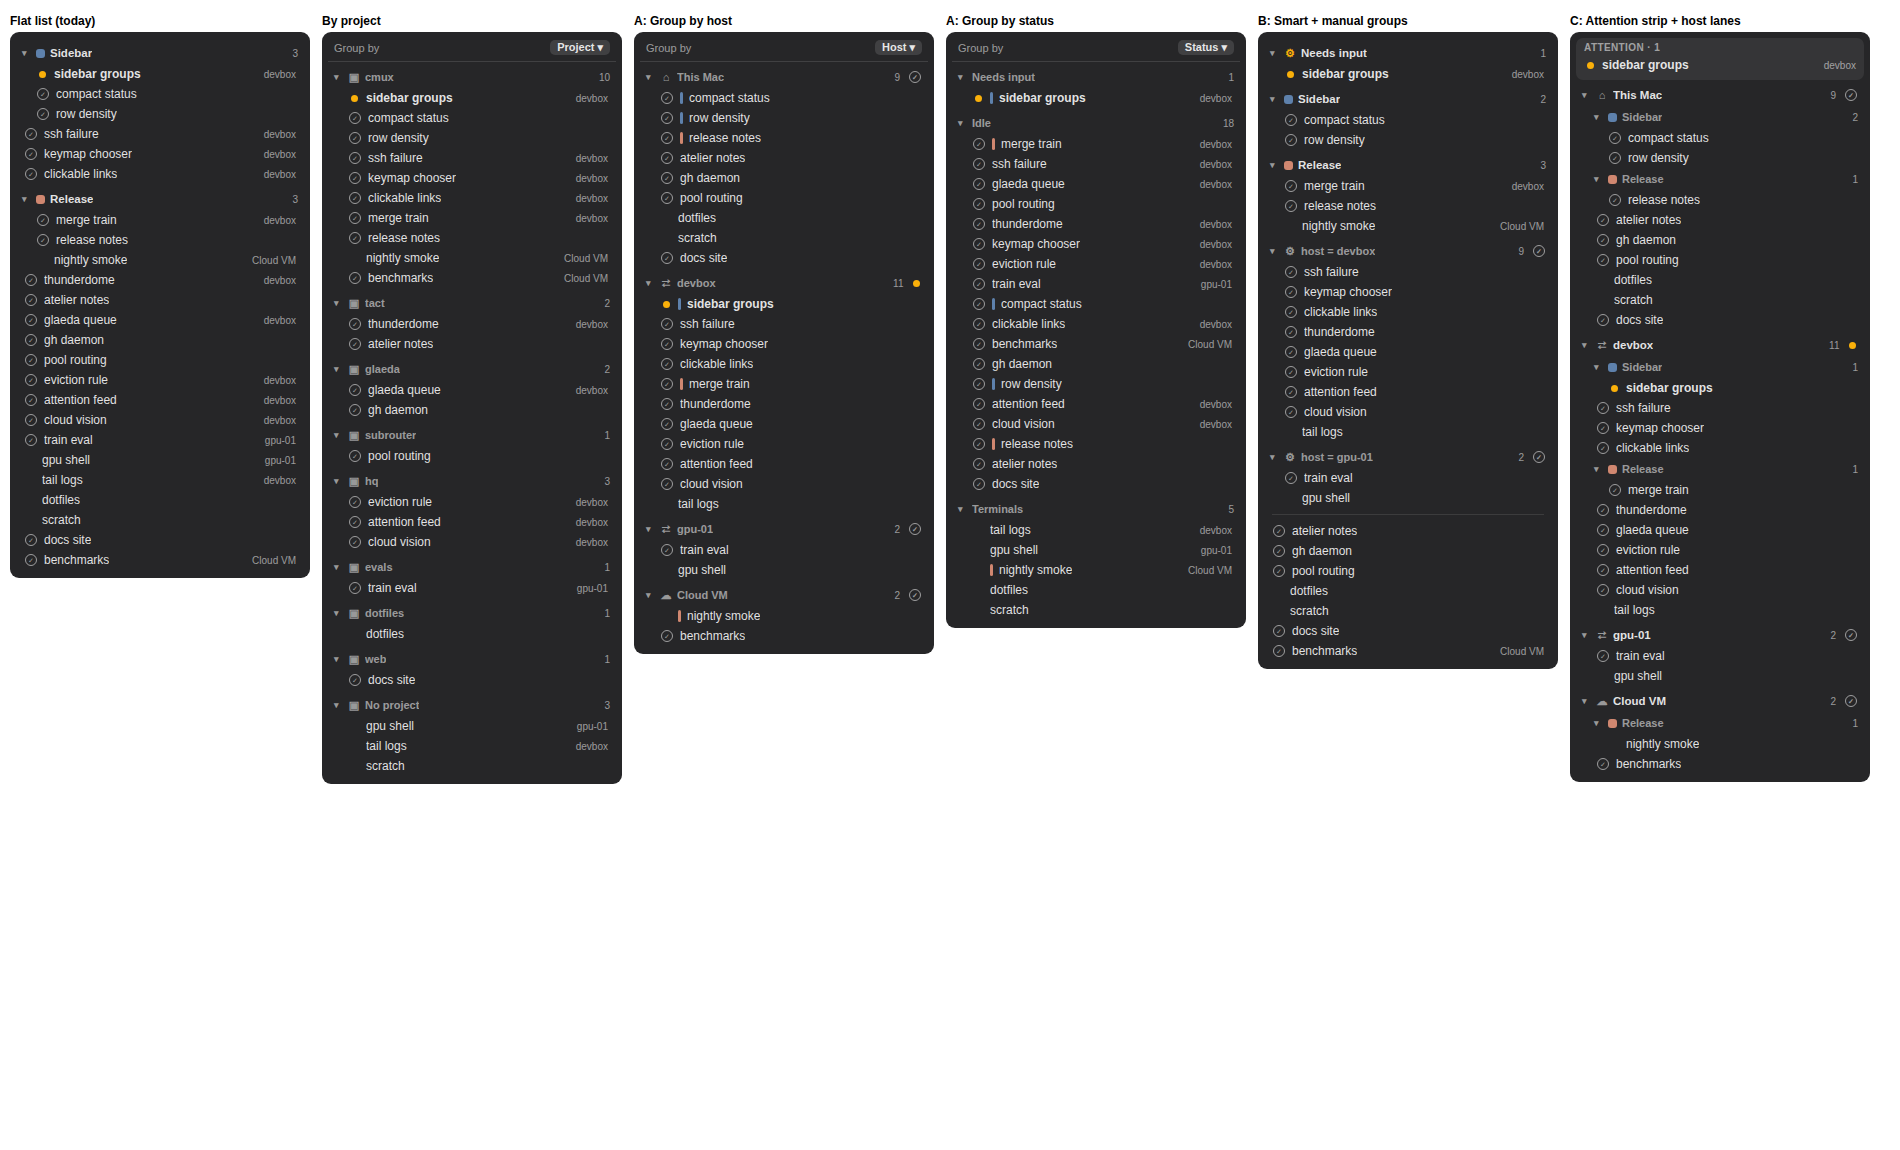
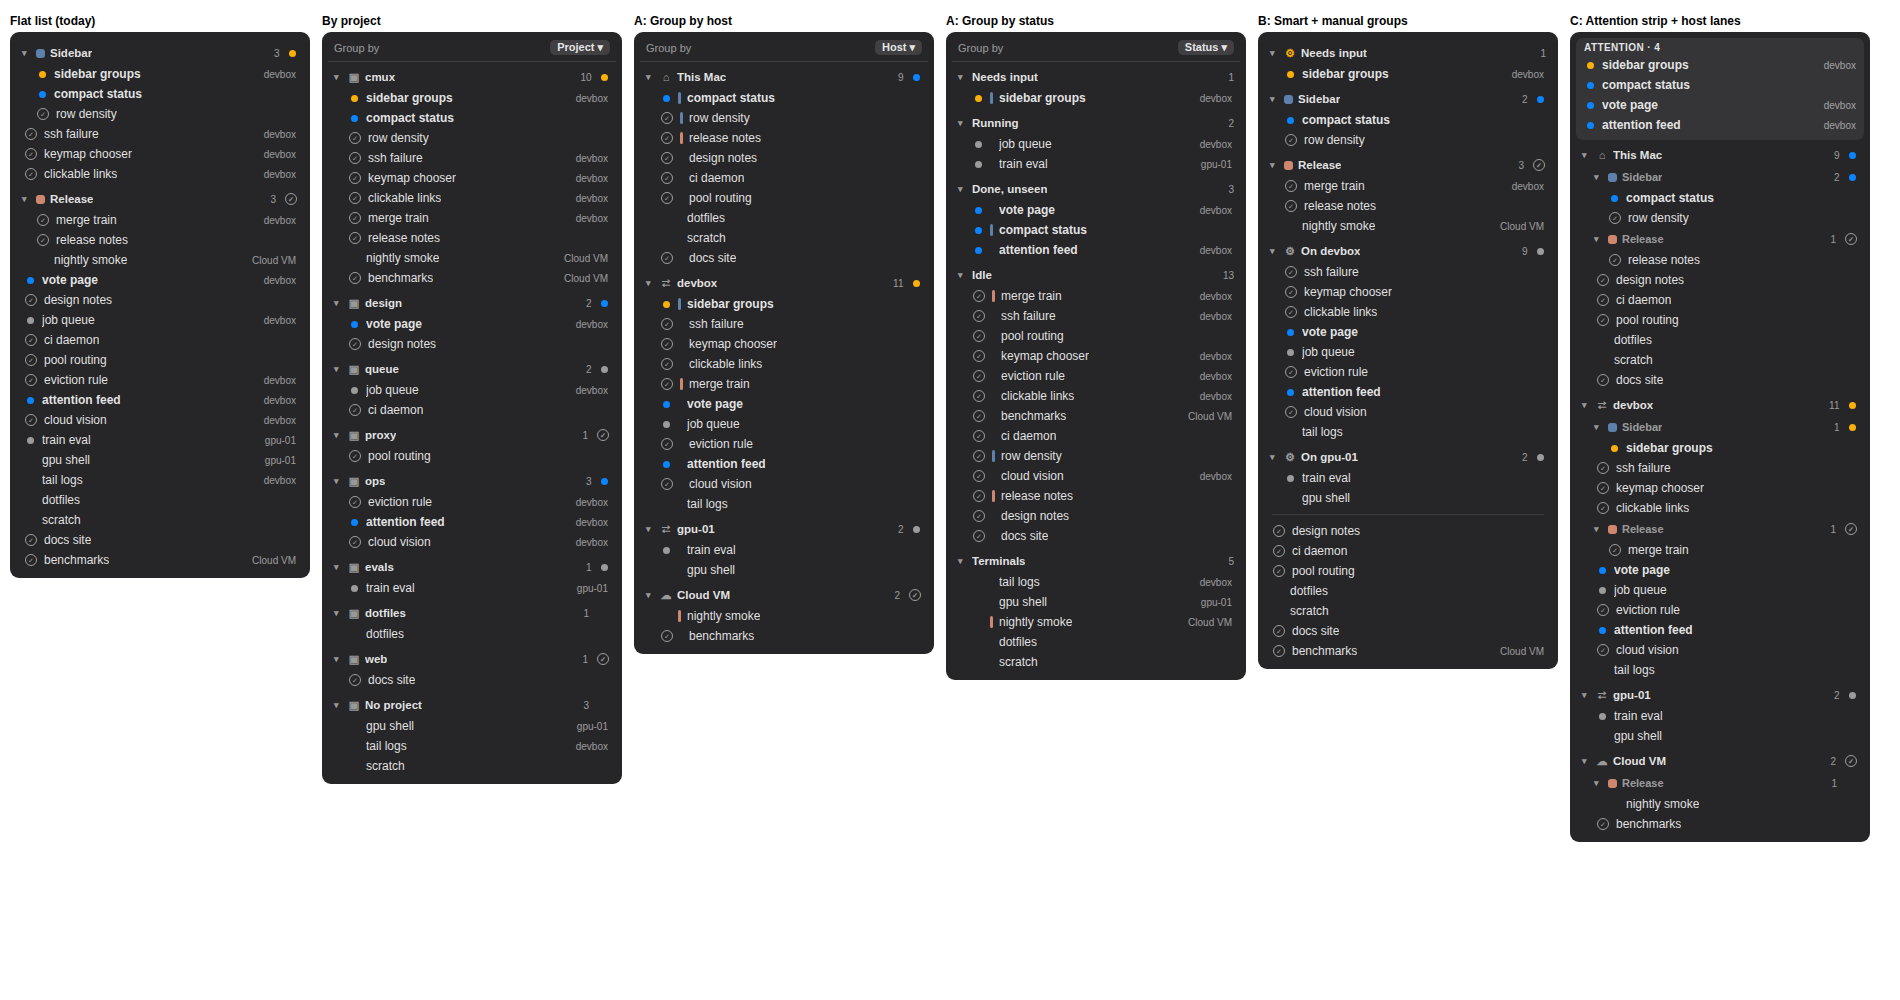
Thunderdome sidebar groups: even out the mocks after review
Every top-level header now has the same weight and a status rollup, group
tags reserve their slot, the quiet moment keeps some running and unseen
work, B's note says what wins, rules read "On devbox", the legend covers
tags and rule groups, and mock names are generic.

diff --git a/experiments/thunderdome/examples/cmux-sidebar-groups/index.html b/experiments/thunderdome/examples/cmux-sidebar-groups/index.html
@@ -5,7 +5,7 @@
 <meta charset="utf-8">
 <meta name="viewport" content="width=device-width,initial-scale=1">
 <title>Sidebar Organization Thunderdome</title>
-<meta name="description" content="Six ways to organize the same 24 cmux workspaces: local agents, agents on two ssh hosts and a Cloud VM, and plain terminals. Pick the sidebar you would rather work from all day. The arena flips between a busy afternoon (several agents need you) and a quiet evening. Glyphs: amber = needs input, grey ">
+<meta name="description" content="Six ways to organize the same 24 cmux workspaces: local agents, agents on two ssh hosts and a Cloud VM, and plain terminals. Pick the sidebar you would rather work from all day. The arena flips between a busy afternoon (several agents need you) and a quiet evening. Glyphs are the ones cmux draws: am">
 <link rel="preconnect" href="https://fonts.googleapis.com">
 <link rel="preconnect" href="https://fonts.gstatic.com" crossorigin>
 <link rel="stylesheet" href="https://fonts.googleapis.com/css2?family=IBM+Plex+Mono:wght@400;500&family=IBM+Plex+Sans:wght@400;500;600&display=swap">
@@ -696,7 +696,6 @@ body{margin:0;background:var(--bg);color:var(--ink);font:15px/1.5 var(--sans);pa
 <script>
 // cmux sidebar organization: six ways to lay out the same ~24 workspaces.
 // Arena: sidebar theme x moment (busy afternoon vs quiet evening). Split: light vs dark.
-// Design notes: manaflow-ai/cmuxterm-hq#871.
 
 const THEMES = [
   { id: "mac-light", name: "macOS Light", bg: "#E6E6E8", fg: [0, 0, 0], fgA: .85, secA: .5, dark: false },
@@ -711,7 +710,7 @@ const rgba = (c, a) => `rgba(${c[0]},${c[1]},${c[2]},${a})`;
 // Hosts: "local" is this Mac; "devbox" and "gpu-01" are cmux ssh targets; "cloud" is a Cloud VM.
 const W = [
   ["sidebar groups", "devbox", "claude", "cmux", "Sidebar", "rn", 4],
-  ["compact status", "local", "claude", "cmux", "Sidebar", "ui", 12],
+  ["compact status", "local", "claude", "cmux", "Sidebar", "uu", 12],
   ["row density", "local", "claude", "cmux", "Sidebar", "ri", 30],
   ["ssh failure", "devbox", "claude", "cmux", null, "ni", 2],
   ["keymap chooser", "devbox", "codex", "cmux", null, "ri", 8],
@@ -719,15 +718,15 @@ const W = [
   ["merge train", "devbox", "claude", "cmux", "Release", "ri", 1],
   ["release notes", "local", "codex", "cmux", "Release", "ii", 240],
   ["nightly smoke", "cloud", null, "cmux", "Release", "tt", 400],
-  ["thunderdome", "devbox", "claude", "tact", null, "ui", 6],
-  ["atelier notes", "local", "claude", "tact", null, "ii", 900],
-  ["glaeda queue", "devbox", "codex", "glaeda", null, "ri", 3],
-  ["gh daemon", "local", "claude", "glaeda", null, "ni", 20],
-  ["pool routing", "local", "claude", "subrouter", null, "ri", 5],
-  ["eviction rule", "devbox", "claude", "hq", null, "ri", 9],
-  ["attention feed", "devbox", "claude", "hq", null, "ui", 45],
-  ["cloud vision", "devbox", "codex", "hq", null, "ii", 130],
-  ["train eval", "gpu-01", "claude", "evals", null, "ri", 11],
+  ["vote page", "devbox", "claude", "design", null, "uu", 6],
+  ["design notes", "local", "claude", "design", null, "ii", 900],
+  ["job queue", "devbox", "codex", "queue", null, "rr", 3],
+  ["ci daemon", "local", "claude", "queue", null, "ni", 20],
+  ["pool routing", "local", "claude", "proxy", null, "ri", 5],
+  ["eviction rule", "devbox", "claude", "ops", null, "ri", 9],
+  ["attention feed", "devbox", "claude", "ops", null, "uu", 45],
+  ["cloud vision", "devbox", "codex", "ops", null, "ii", 130],
+  ["train eval", "gpu-01", "claude", "evals", null, "rr", 11],
   ["gpu shell", "gpu-01", null, "~", null, "tt", 60],
   ["tail logs", "devbox", null, "~", null, "tt", 25],
   ["dotfiles", "local", null, "dotfiles", null, "tt", 2000],
@@ -771,7 +770,7 @@ function row(w, ctx, opts = {}) {
   const st = statusOf(w, m);
   const r = h("div", { class: "r" + (opts.indent === 2 ? " in2" : opts.indent ? " in" : "") });
   r.append(glyph(st, th, h));
-  if (opts.groupTag && w.group) r.append(h("span", { class: "tag", style: `background:${GROUP_COLOR[w.group]}` }));
+  if (opts.groupTag) r.append(h("span", { class: "tag", style: w.group ? `background:${GROUP_COLOR[w.group]}` : "" }));
   r.append(h("span", { class: "nm", style: `color:${fg};font-weight:${st === "u" || st === "n" ? 650 : 500}`, text: w.t }));
   const trail = opts.trail ? opts.trail(w) : (w.host !== "local" ? HOST_NAME[w.host] : "");
   if (trail) r.append(h("span", { class: "tr", style: `color:${sec}`, text: trail }));
@@ -812,7 +811,7 @@ function sections(ws, keyOf, order, ctx, labelOf, opts = {}) {
   const out = [];
   for (const k of keys) {
     const items = buckets.get(k);
-    out.push(header(labelOf(k), ctx, { count: items.length, rollup: opts.rollup ? loudest(items) : null, icon: opts.icon && opts.icon(k), color: opts.color && opts.color(k) }));
+    out.push(header(labelOf(k), ctx, { strong: true, count: items.length, rollup: opts.rollup === false ? null : loudest(items), icon: opts.icon && opts.icon(k), color: opts.color && opts.color(k) }));
     for (const w of items) out.push(row(w, ctx, { indent: true, ...(opts.row || {}) }));
   }
   return out;
@@ -831,7 +830,7 @@ const LAYOUTS = [
         if (w.group && !seen.has(w.group)) {
           seen.add(w.group);
           const members = ws.filter(x => x.group === w.group);
-          out.push(header(w.group, ctx, { color: GROUP_COLOR[w.group], strong: true, count: members.length }));
+          out.push(header(w.group, ctx, { color: GROUP_COLOR[w.group], strong: true, count: members.length, rollup: loudest(members) }));
           for (const x of members) out.push(row(x, ctx, { indent: true }));
         } else if (!w.group) out.push(row(w, ctx));
       }
@@ -850,11 +849,10 @@ const LAYOUTS = [
 
   { id: "a-status", name: "A: Group by status", note: "Same switcher; sections by agent state, loudest first",
     body: (ws, ctx) => [switcher("Status", ctx), ...sections(ws.slice().sort(byRecent), w => w.cur, k => STATUS_META[k].rank, ctx, k => STATUS_META[k].name,
-      { row: { groupTag: true } })] },
+      { rollup: false, row: { groupTag: true } })] },
 
-  { id: "b-smart", name: "B: Smart + manual groups", note: "Rule groups live beside manual ones; manual membership wins",
+  { id: "b-smart", name: "B: Smart + manual groups", note: "Rule groups beside manual ones: Needs input first, then manual groups, then host rules",
     body: (ws, ctx) => {
-      const { th } = ctx;
       const out = [];
       const needs = ws.filter(w => w.cur === "n");
       out.push(header("Needs input", ctx, { icon: "⚙", color: AMBER, strong: true, count: needs.length }));
@@ -862,13 +860,13 @@ const LAYOUTS = [
       const rest = ws.filter(w => w.cur !== "n");
       for (const g of ["Sidebar", "Release"]) {
         const m = rest.filter(w => w.group === g);
-        out.push(header(g, ctx, { color: GROUP_COLOR[g], strong: true, count: m.length }));
+        out.push(header(g, ctx, { color: GROUP_COLOR[g], strong: true, count: m.length, rollup: m.length ? loudest(m) : null }));
         for (const w of m) out.push(row(w, ctx, { indent: true }));
       }
       const free = rest.filter(w => !w.group);
       for (const host of ["devbox", "gpu-01"]) {
         const m = free.filter(w => w.host === host);
-        out.push(header(`host = ${host}`, ctx, { icon: "⚙", count: m.length, rollup: m.length ? loudest(m) : null }));
+        out.push(header(`On ${host}`, ctx, { strong: true, icon: "⚙", count: m.length, rollup: m.length ? loudest(m) : null }));
         for (const w of m) out.push(row(w, ctx, { indent: true, trail: () => "" }));
       }
       const other = free.filter(w => w.host !== "devbox" && w.host !== "gpu-01");
@@ -883,7 +881,7 @@ const LAYOUTS = [
       const out = [];
       const hot = ws.filter(w => w.cur === "n" || w.cur === "u").sort((a, b) => STATUS_META[a.cur].rank - STATUS_META[b.cur].rank);
       const strip = h("div", { class: "strip", style: `background:${rgba(th.fg, th.dark ? .07 : .05)}` });
-      strip.append(h("div", { class: "strip-l", style: `color:${rgba(th.fg, th.secA)}`, text: hot.length ? `Attention · ${hot.length}` : "Attention · all clear" }));
+      strip.append(h("div", { class: "strip-l", style: `color:${rgba(th.fg, th.fgA)}`, text: hot.length ? `Attention · ${hot.length}` : "Attention · all clear" }));
       for (const w of hot) strip.append(row(w, ctx));
       out.push(strip);
       for (const host of HOST_ORDER) {
@@ -895,7 +893,7 @@ const LAYOUTS = [
           if (w.group && !seen.has(w.group)) {
             seen.add(w.group);
             const members = lane.filter(x => x.group === w.group);
-            const sub = header(w.group, ctx, { color: GROUP_COLOR[w.group], count: members.length });
+            const sub = header(w.group, ctx, { color: GROUP_COLOR[w.group], count: members.length, rollup: loudest(members) });
             sub.classList.add("in");
             out.push(sub);
             for (const x of members) out.push(row(x, ctx, { indent: 2, trail: () => "" }));
@@ -913,7 +911,7 @@ function h_sep(ctx) {
 Thunderdome.start({
   id: "cmux-sidebar-groups",
   title: "Sidebar Organization Thunderdome",
-  lede: "Six ways to organize the same 24 cmux workspaces: local agents, agents on two ssh hosts and a Cloud VM, and plain terminals. Pick the sidebar you would rather work from all day. The arena flips between a busy afternoon (several agents need you) and a quiet evening. Glyphs: amber = needs input, grey = running, blue = done and unseen, ✓ = idle. Design notes: <code>manaflow-ai/cmuxterm-hq#871</code>.",
+  lede: "Six ways to organize the same 24 cmux workspaces: local agents, agents on two ssh hosts and a Cloud VM, and plain terminals. Pick the sidebar you would rather work from all day. The arena flips between a busy afternoon (several agents need you) and a quiet evening. Glyphs are the ones cmux draws: amber = needs input, grey = running, blue = done and unseen, ✓ = idle. A colored bar is a manual group; ⚙ marks a rule-based smart group.",
   contenderLabel: "Layout",
   contenders: LAYOUTS,
   arena: {

diff --git a/experiments/thunderdome/examples/cmux-sidebar-groups/config.js b/experiments/thunderdome/examples/cmux-sidebar-groups/config.js
@@ -1,6 +1,5 @@
 // cmux sidebar organization: six ways to lay out the same ~24 workspaces.
 // Arena: sidebar theme x moment (busy afternoon vs quiet evening). Split: light vs dark.
-// Design notes: manaflow-ai/cmuxterm-hq#871.
 
 const THEMES = [
   { id: "mac-light", name: "macOS Light", bg: "#E6E6E8", fg: [0, 0, 0], fgA: .85, secA: .5, dark: false },
@@ -15,7 +14,7 @@ const rgba = (c, a) => `rgba(${c[0]},${c[1]},${c[2]},${a})`;
 // Hosts: "local" is this Mac; "devbox" and "gpu-01" are cmux ssh targets; "cloud" is a Cloud VM.
 const W = [
   ["sidebar groups", "devbox", "claude", "cmux", "Sidebar", "rn", 4],
-  ["compact status", "local", "claude", "cmux", "Sidebar", "ui", 12],
+  ["compact status", "local", "claude", "cmux", "Sidebar", "uu", 12],
   ["row density", "local", "claude", "cmux", "Sidebar", "ri", 30],
   ["ssh failure", "devbox", "claude", "cmux", null, "ni", 2],
   ["keymap chooser", "devbox", "codex", "cmux", null, "ri", 8],
@@ -23,15 +22,15 @@ const W = [
   ["merge train", "devbox", "claude", "cmux", "Release", "ri", 1],
   ["release notes", "local", "codex", "cmux", "Release", "ii", 240],
   ["nightly smoke", "cloud", null, "cmux", "Release", "tt", 400],
-  ["thunderdome", "devbox", "claude", "tact", null, "ui", 6],
-  ["atelier notes", "local", "claude", "tact", null, "ii", 900],
-  ["glaeda queue", "devbox", "codex", "glaeda", null, "ri", 3],
-  ["gh daemon", "local", "claude", "glaeda", null, "ni", 20],
-  ["pool routing", "local", "claude", "subrouter", null, "ri", 5],
-  ["eviction rule", "devbox", "claude", "hq", null, "ri", 9],
-  ["attention feed", "devbox", "claude", "hq", null, "ui", 45],
-  ["cloud vision", "devbox", "codex", "hq", null, "ii", 130],
-  ["train eval", "gpu-01", "claude", "evals", null, "ri", 11],
+  ["vote page", "devbox", "claude", "design", null, "uu", 6],
+  ["design notes", "local", "claude", "design", null, "ii", 900],
+  ["job queue", "devbox", "codex", "queue", null, "rr", 3],
+  ["ci daemon", "local", "claude", "queue", null, "ni", 20],
+  ["pool routing", "local", "claude", "proxy", null, "ri", 5],
+  ["eviction rule", "devbox", "claude", "ops", null, "ri", 9],
+  ["attention feed", "devbox", "claude", "ops", null, "uu", 45],
+  ["cloud vision", "devbox", "codex", "ops", null, "ii", 130],
+  ["train eval", "gpu-01", "claude", "evals", null, "rr", 11],
   ["gpu shell", "gpu-01", null, "~", null, "tt", 60],
   ["tail logs", "devbox", null, "~", null, "tt", 25],
   ["dotfiles", "local", null, "dotfiles", null, "tt", 2000],
@@ -75,7 +74,7 @@ function row(w, ctx, opts = {}) {
   const st = statusOf(w, m);
   const r = h("div", { class: "r" + (opts.indent === 2 ? " in2" : opts.indent ? " in" : "") });
   r.append(glyph(st, th, h));
-  if (opts.groupTag && w.group) r.append(h("span", { class: "tag", style: `background:${GROUP_COLOR[w.group]}` }));
+  if (opts.groupTag) r.append(h("span", { class: "tag", style: w.group ? `background:${GROUP_COLOR[w.group]}` : "" }));
   r.append(h("span", { class: "nm", style: `color:${fg};font-weight:${st === "u" || st === "n" ? 650 : 500}`, text: w.t }));
   const trail = opts.trail ? opts.trail(w) : (w.host !== "local" ? HOST_NAME[w.host] : "");
   if (trail) r.append(h("span", { class: "tr", style: `color:${sec}`, text: trail }));
@@ -116,7 +115,7 @@ function sections(ws, keyOf, order, ctx, labelOf, opts = {}) {
   const out = [];
   for (const k of keys) {
     const items = buckets.get(k);
-    out.push(header(labelOf(k), ctx, { count: items.length, rollup: opts.rollup ? loudest(items) : null, icon: opts.icon && opts.icon(k), color: opts.color && opts.color(k) }));
+    out.push(header(labelOf(k), ctx, { strong: true, count: items.length, rollup: opts.rollup === false ? null : loudest(items), icon: opts.icon && opts.icon(k), color: opts.color && opts.color(k) }));
     for (const w of items) out.push(row(w, ctx, { indent: true, ...(opts.row || {}) }));
   }
   return out;
@@ -135,7 +134,7 @@ const LAYOUTS = [
         if (w.group && !seen.has(w.group)) {
           seen.add(w.group);
           const members = ws.filter(x => x.group === w.group);
-          out.push(header(w.group, ctx, { color: GROUP_COLOR[w.group], strong: true, count: members.length }));
+          out.push(header(w.group, ctx, { color: GROUP_COLOR[w.group], strong: true, count: members.length, rollup: loudest(members) }));
           for (const x of members) out.push(row(x, ctx, { indent: true }));
         } else if (!w.group) out.push(row(w, ctx));
       }
@@ -154,11 +153,10 @@ const LAYOUTS = [
 
   { id: "a-status", name: "A: Group by status", note: "Same switcher; sections by agent state, loudest first",
     body: (ws, ctx) => [switcher("Status", ctx), ...sections(ws.slice().sort(byRecent), w => w.cur, k => STATUS_META[k].rank, ctx, k => STATUS_META[k].name,
-      { row: { groupTag: true } })] },
+      { rollup: false, row: { groupTag: true } })] },
 
-  { id: "b-smart", name: "B: Smart + manual groups", note: "Rule groups live beside manual ones; manual membership wins",
+  { id: "b-smart", name: "B: Smart + manual groups", note: "Rule groups beside manual ones: Needs input first, then manual groups, then host rules",
     body: (ws, ctx) => {
-      const { th } = ctx;
       const out = [];
       const needs = ws.filter(w => w.cur === "n");
       out.push(header("Needs input", ctx, { icon: "⚙", color: AMBER, strong: true, count: needs.length }));
@@ -166,13 +164,13 @@ const LAYOUTS = [
       const rest = ws.filter(w => w.cur !== "n");
       for (const g of ["Sidebar", "Release"]) {
         const m = rest.filter(w => w.group === g);
-        out.push(header(g, ctx, { color: GROUP_COLOR[g], strong: true, count: m.length }));
+        out.push(header(g, ctx, { color: GROUP_COLOR[g], strong: true, count: m.length, rollup: m.length ? loudest(m) : null }));
         for (const w of m) out.push(row(w, ctx, { indent: true }));
       }
       const free = rest.filter(w => !w.group);
       for (const host of ["devbox", "gpu-01"]) {
         const m = free.filter(w => w.host === host);
-        out.push(header(`host = ${host}`, ctx, { icon: "⚙", count: m.length, rollup: m.length ? loudest(m) : null }));
+        out.push(header(`On ${host}`, ctx, { strong: true, icon: "⚙", count: m.length, rollup: m.length ? loudest(m) : null }));
         for (const w of m) out.push(row(w, ctx, { indent: true, trail: () => "" }));
       }
       const other = free.filter(w => w.host !== "devbox" && w.host !== "gpu-01");
@@ -187,7 +185,7 @@ const LAYOUTS = [
       const out = [];
       const hot = ws.filter(w => w.cur === "n" || w.cur === "u").sort((a, b) => STATUS_META[a.cur].rank - STATUS_META[b.cur].rank);
       const strip = h("div", { class: "strip", style: `background:${rgba(th.fg, th.dark ? .07 : .05)}` });
-      strip.append(h("div", { class: "strip-l", style: `color:${rgba(th.fg, th.secA)}`, text: hot.length ? `Attention · ${hot.length}` : "Attention · all clear" }));
+      strip.append(h("div", { class: "strip-l", style: `color:${rgba(th.fg, th.fgA)}`, text: hot.length ? `Attention · ${hot.length}` : "Attention · all clear" }));
       for (const w of hot) strip.append(row(w, ctx));
       out.push(strip);
       for (const host of HOST_ORDER) {
@@ -199,7 +197,7 @@ const LAYOUTS = [
           if (w.group && !seen.has(w.group)) {
             seen.add(w.group);
             const members = lane.filter(x => x.group === w.group);
-            const sub = header(w.group, ctx, { color: GROUP_COLOR[w.group], count: members.length });
+            const sub = header(w.group, ctx, { color: GROUP_COLOR[w.group], count: members.length, rollup: loudest(members) });
             sub.classList.add("in");
             out.push(sub);
             for (const x of members) out.push(row(x, ctx, { indent: 2, trail: () => "" }));
@@ -217,7 +215,7 @@ function h_sep(ctx) {
 Thunderdome.start({
   id: "cmux-sidebar-groups",
   title: "Sidebar Organization Thunderdome",
-  lede: "Six ways to organize the same 24 cmux workspaces: local agents, agents on two ssh hosts and a Cloud VM, and plain terminals. Pick the sidebar you would rather work from all day. The arena flips between a busy afternoon (several agents need you) and a quiet evening. Glyphs: amber = needs input, grey = running, blue = done and unseen, ✓ = idle. Design notes: <code>manaflow-ai/cmuxterm-hq#871</code>.",
+  lede: "Six ways to organize the same 24 cmux workspaces: local agents, agents on two ssh hosts and a Cloud VM, and plain terminals. Pick the sidebar you would rather work from all day. The arena flips between a busy afternoon (several agents need you) and a quiet evening. Glyphs are the ones cmux draws: amber = needs input, grey = running, blue = done and unseen, ✓ = idle. A colored bar is a manual group; ⚙ marks a rule-based smart group.",
   contenderLabel: "Layout",
   contenders: LAYOUTS,
   arena: {

diff --git a/experiments/thunderdome/README.md b/experiments/thunderdome/README.md
@@ -35,7 +35,7 @@ experiments/thunderdome/
   examples/
     starter/              smallest config: four HTML-snippet buttons
     cmux-selection/       cmux sidebar selection, eight treatments (see RESULTS.md)
-    cmux-sidebar-groups/  cmux sidebar organization: six layouts of the same 24 workspaces
+    cmux-sidebar-groups/  cmux sidebar organization: six layouts of the same 24 workspaces (overview-*.png show all six)
     motion/               four busy indicators as video, one clip per theme
 ```
 
